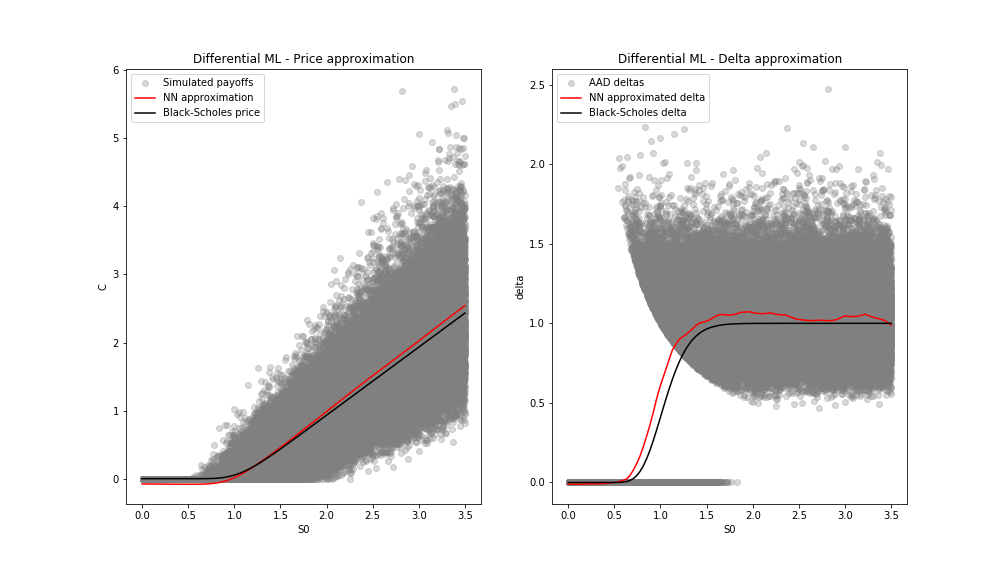
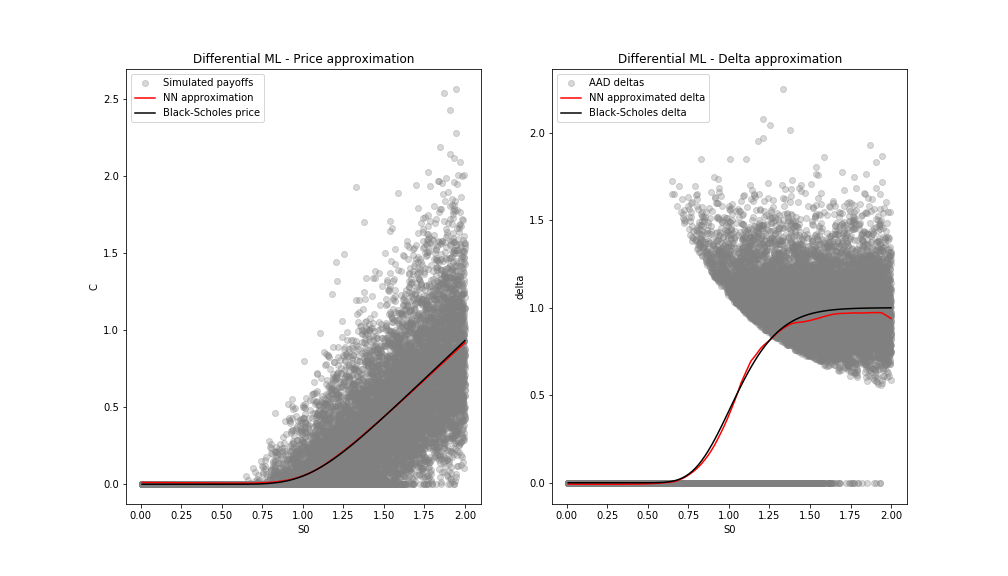
Main fixes

diff --git a/Main.py b/Main.py
@@ -1,6 +1,5 @@
 #%%
 import NeuralNetwork.NN as nn
-import OptionType.EuroCall as ec
 import Models.BlackScholesModel as bsm
 import MonteCarlo.TimeDiscretization as td
 import MonteCarlo.BrownianMotion as bm
@@ -23,20 +22,23 @@ def deltaBS(S0, K, T, sigma, r):
     d1 = 1/(sigma*np.sqrt(T)) * (np.log(S0/K) + (r+(sigma**2)/2) * T )
     return norm.cdf(d1)
 #%%
-nSamples = 10000
+nSamples = 20000
 dt = 1
 sigma = 0.2
 K = 1.1
 d = 1
 r = 0.03
 
+S0_0 = 0.01
+S0_T = 2
+
 #Generate data
-S0 = K + d * np.random.normal(0, 1, nSamples)
-S0 = np.linspace(0.01,3.5,nSamples)
+#S0 = K + d * np.random.normal(0, 1, nSamples)
+S0 = np.linspace(S0_0, S0_T, nSamples)
 ST = np.empty(S0.shape[0])
 delta = np.empty(S0.shape[0])
 
-product = Option(1)
+product = Option(K)
 time = td.TimeDiscretization(0, 1, 1)
 driver = bm.BrownianMotion(time, nSamples, 1, 0)
 driver.generateBM()
@@ -45,19 +47,18 @@ process = ep.EulerSchemeFromProcessModel(model,driver,time, product)
 for i in range(0,S0.shape[0]):
     S0_tensor = torch.tensor(S0[i])
     ST[i] = process.calculateProcess(S0_tensor, i)
-    delta[i] = process.calculateDerivs(S0_tensor, i)
+    delta[i] = process.calculateDerivs(S0_tensor, torch.tensor(r), torch.tensor(1.),  i)
 
+C = product.payoff(torch.tensor(ST), torch.tensor(r), torch.tensor(1.))
 
-Call = ec.EuroCall(ST, K, dt, r)
-C = Call.payoff()
 
 #Define and train net
 net = nn.NeuralNet(1,1,6,20, differential=True)
 net.generateData(S0, C, delta)
-net.train(alpha=0.2, beta=0.8)
+net.train(n_epochs = 10, batch_size=100, alpha=0.25, beta=0.75, lr=0.001)
 
 #predict
-S0_test = np.linspace(0, 3.5, 100)
+S0_test = np.linspace(S0_0, S0_T, 100)
 y_test, dydx_test = net.predict(S0_test, True)
 
 #compare with true Black-Scholes price

diff --git a/MonteCarlo/EulerSchemeFromProcessModel.py b/MonteCarlo/EulerSchemeFromProcessModel.py
@@ -25,18 +25,21 @@ class EulerSchemeFromProcessModel:
             factorLoadings = self.model.getFactorLoadings(0,0)
             increments = self.stochasticDriver.getIncrement(pathNumber)
             return torch.exp(torch.log(self.initialState) + torch.cumsum(drift * self.timeDiscretization.deltaT + factorLoadings * increments, axis=0))
+            #return torch.exp(torch.add(self.discreteProcess[0],torch.cumsum(torch.add(drift*self.timeDiscretization.deltaT,torch.mul(factorLoadings,increments)),dim=0)))
+            #self.discreteProcess[1:] = torch.add(self.initialState,torch.cumsum(torch.add(drift*self.timeDiscretization.deltaT,torch.mul(factorLoadings,increments)),dim=0))    
+            #return torch.exp(self.discreteProcess)
         else:
             raise NotImplementedError()
 
-    def pathPayoff(self, initialState, pathNumber):
+    def pathPayoff(self, initialState, riskFreeRate, timeToMaturity, pathNumber):
         S = self.calculateProcess(initialState, pathNumber)
-        V = self.product.payoff(S,self.model.riskFreeRate,self.timeDiscretization.deltaT*self.timeDiscretization.numberOfSteps)
+        V = self.product.payoff(S, riskFreeRate, timeToMaturity)
 
         return V
     
-    def calculateDerivs(self, initialState, pathNumber):
+    def calculateDerivs(self, initialState, riskFreeRate, timeToMaturity, pathNumber):
         initialState = torch.tensor(initialState).requires_grad_()
-        f = self.pathPayoff(initialState, pathNumber)[-1]
+        f = self.pathPayoff(initialState, riskFreeRate, timeToMaturity, pathNumber)[-1]
         grad = torch.autograd.grad(f, [initialState], allow_unused=True)
             
         return grad[0]
